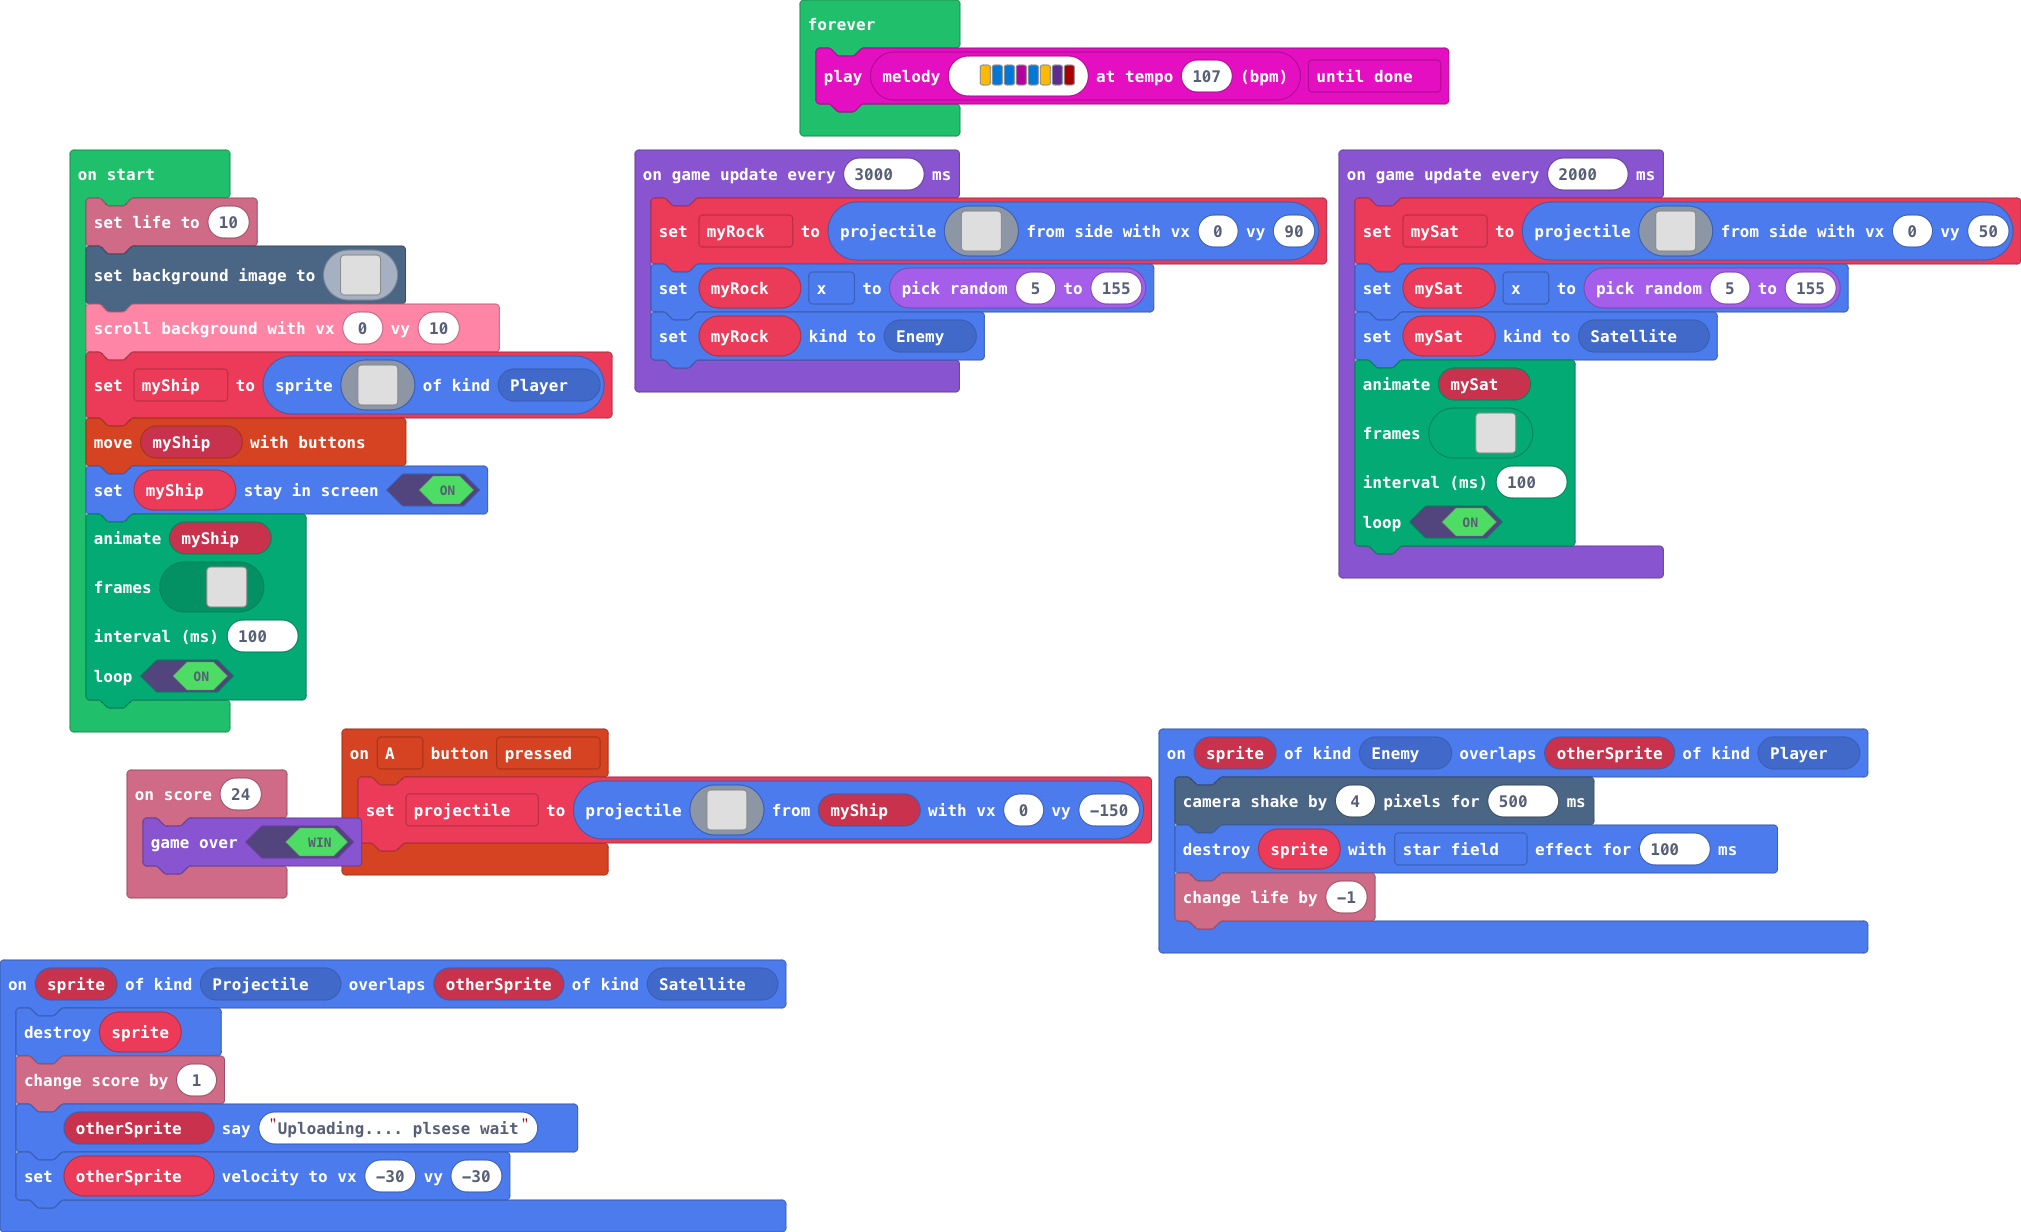
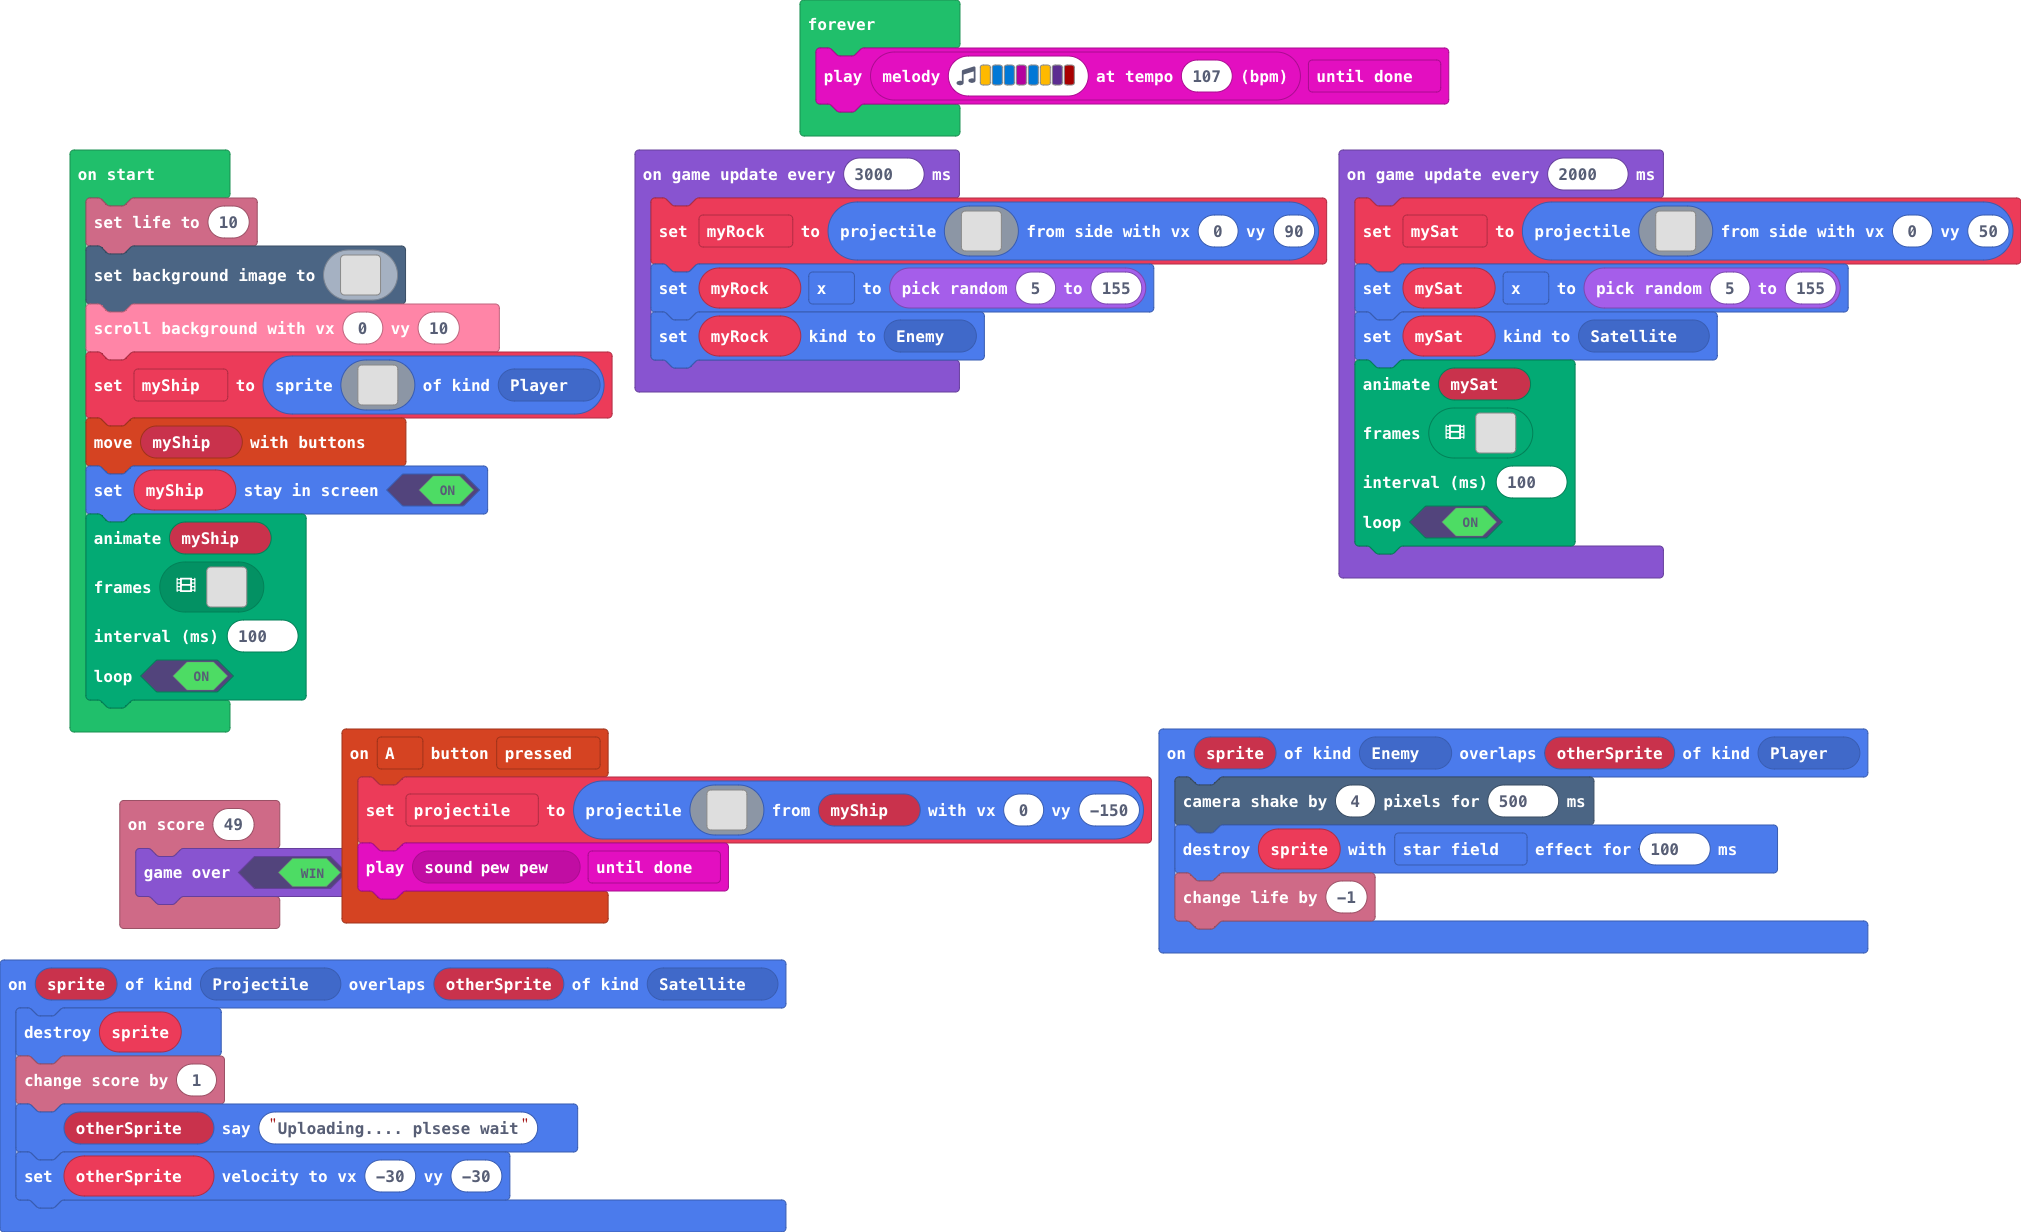
Update main.blocks, main.ts

Changed region(s): [[0.0312, 0.6169, 0.3741, 0.7711]]

diff --git a/main.ts b/main.ts
@@ -4,6 +4,9 @@ sprites.onOverlap(SpriteKind.Projectile, SpriteKind.Satellite, function (sprite,
     otherSprite.sayText("Uploading.... plsese wait")
     otherSprite.setVelocity(-30, -30)
 })
+info.onScore(49, function () {
+    game.gameOver(true)
+})
 controller.A.onEvent(ControllerButtonEvent.Pressed, function () {
     projectile = sprites.createProjectileFromSprite(img`
         . 1 . 
@@ -19,14 +22,12 @@ controller.A.onEvent(ControllerButtonEvent.Pressed, function () {
         . 1 . 
         . 1 . 
         `, myShip, 0, -150)
+    music.play(music.melodyPlayable(music.pewPew), music.PlaybackMode.UntilDone)
 })
 sprites.onOverlap(SpriteKind.Enemy, SpriteKind.Player, function (sprite, otherSprite) {
     scene.cameraShake(4, 500)
     sprite.destroy(effects.starField, 100)
     info.changeLifeBy(-1)
-})
-info.onScore(24, function () {
-    game.gameOver(true)
 })
 let myRock: Sprite = null
 let mySat: Sprite = null
